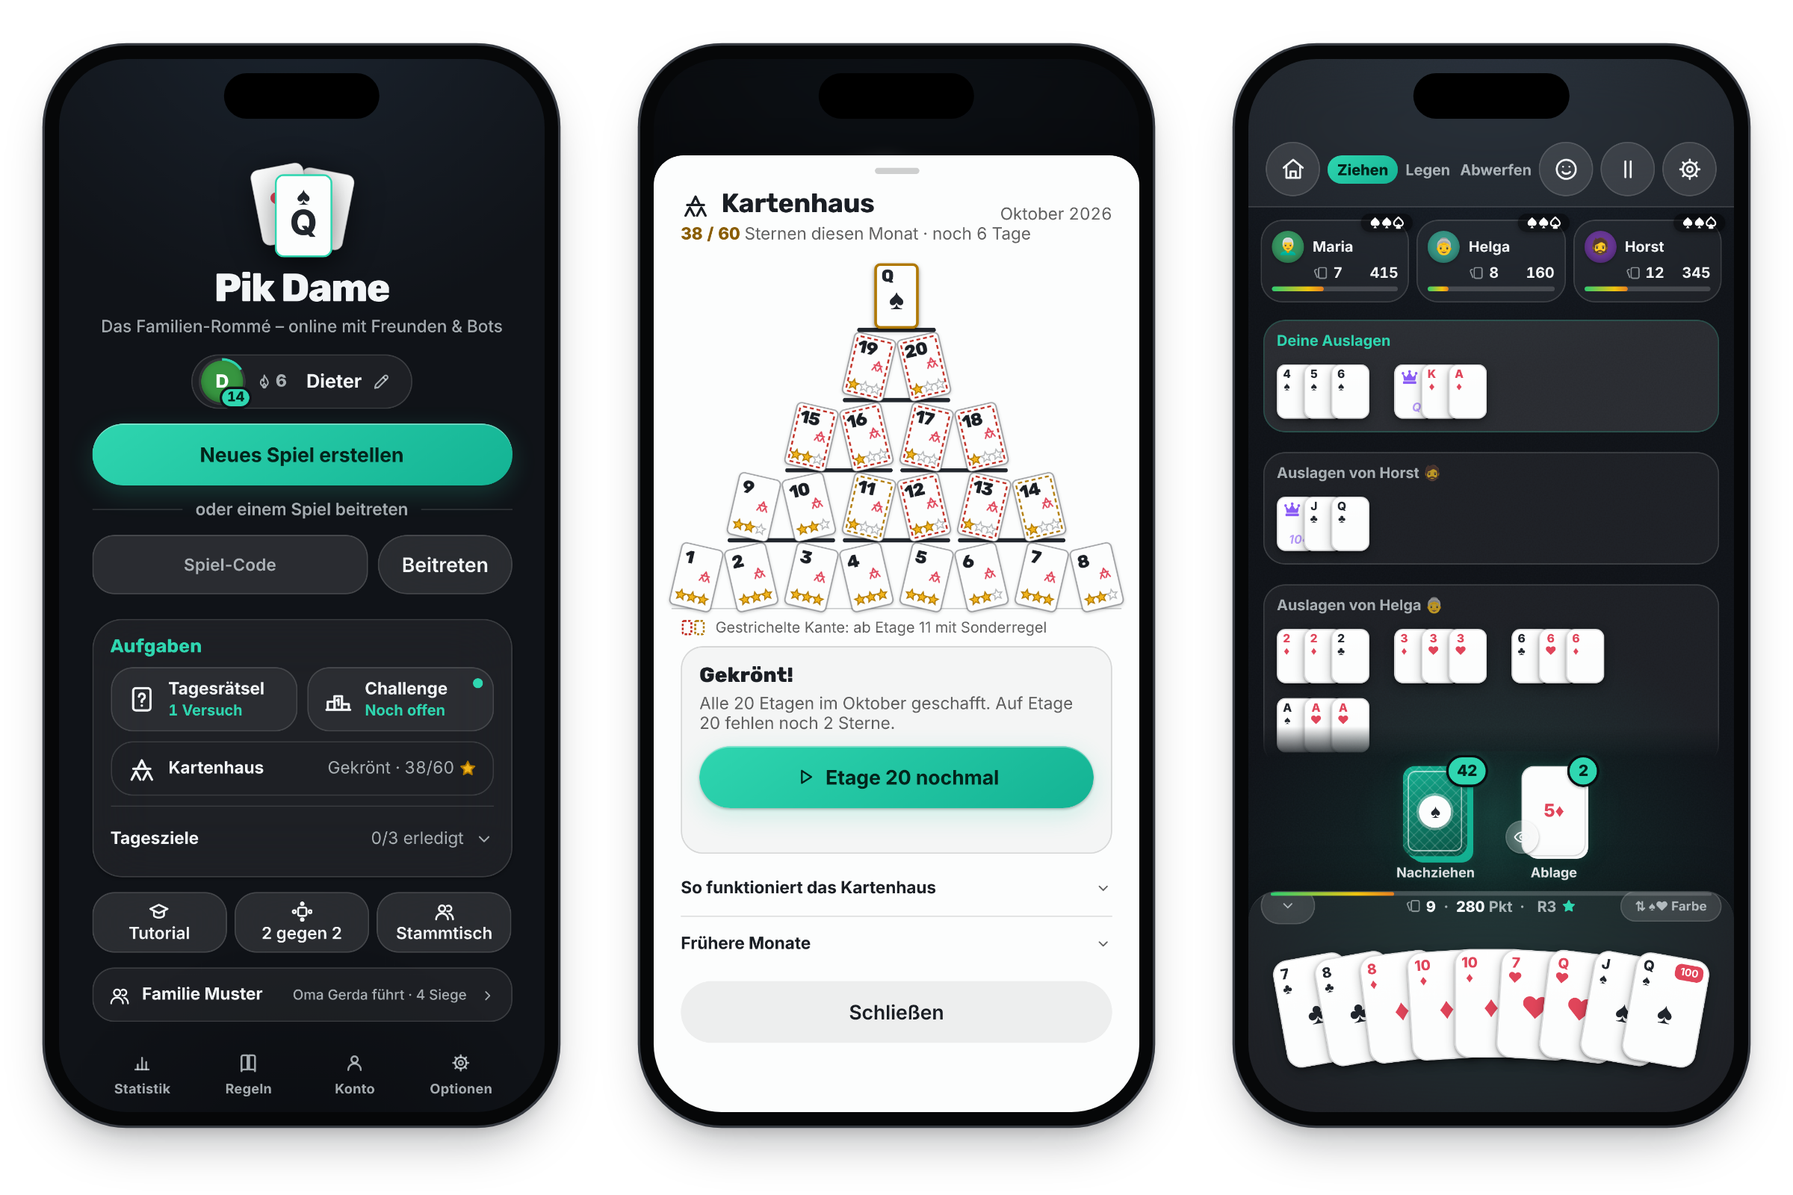
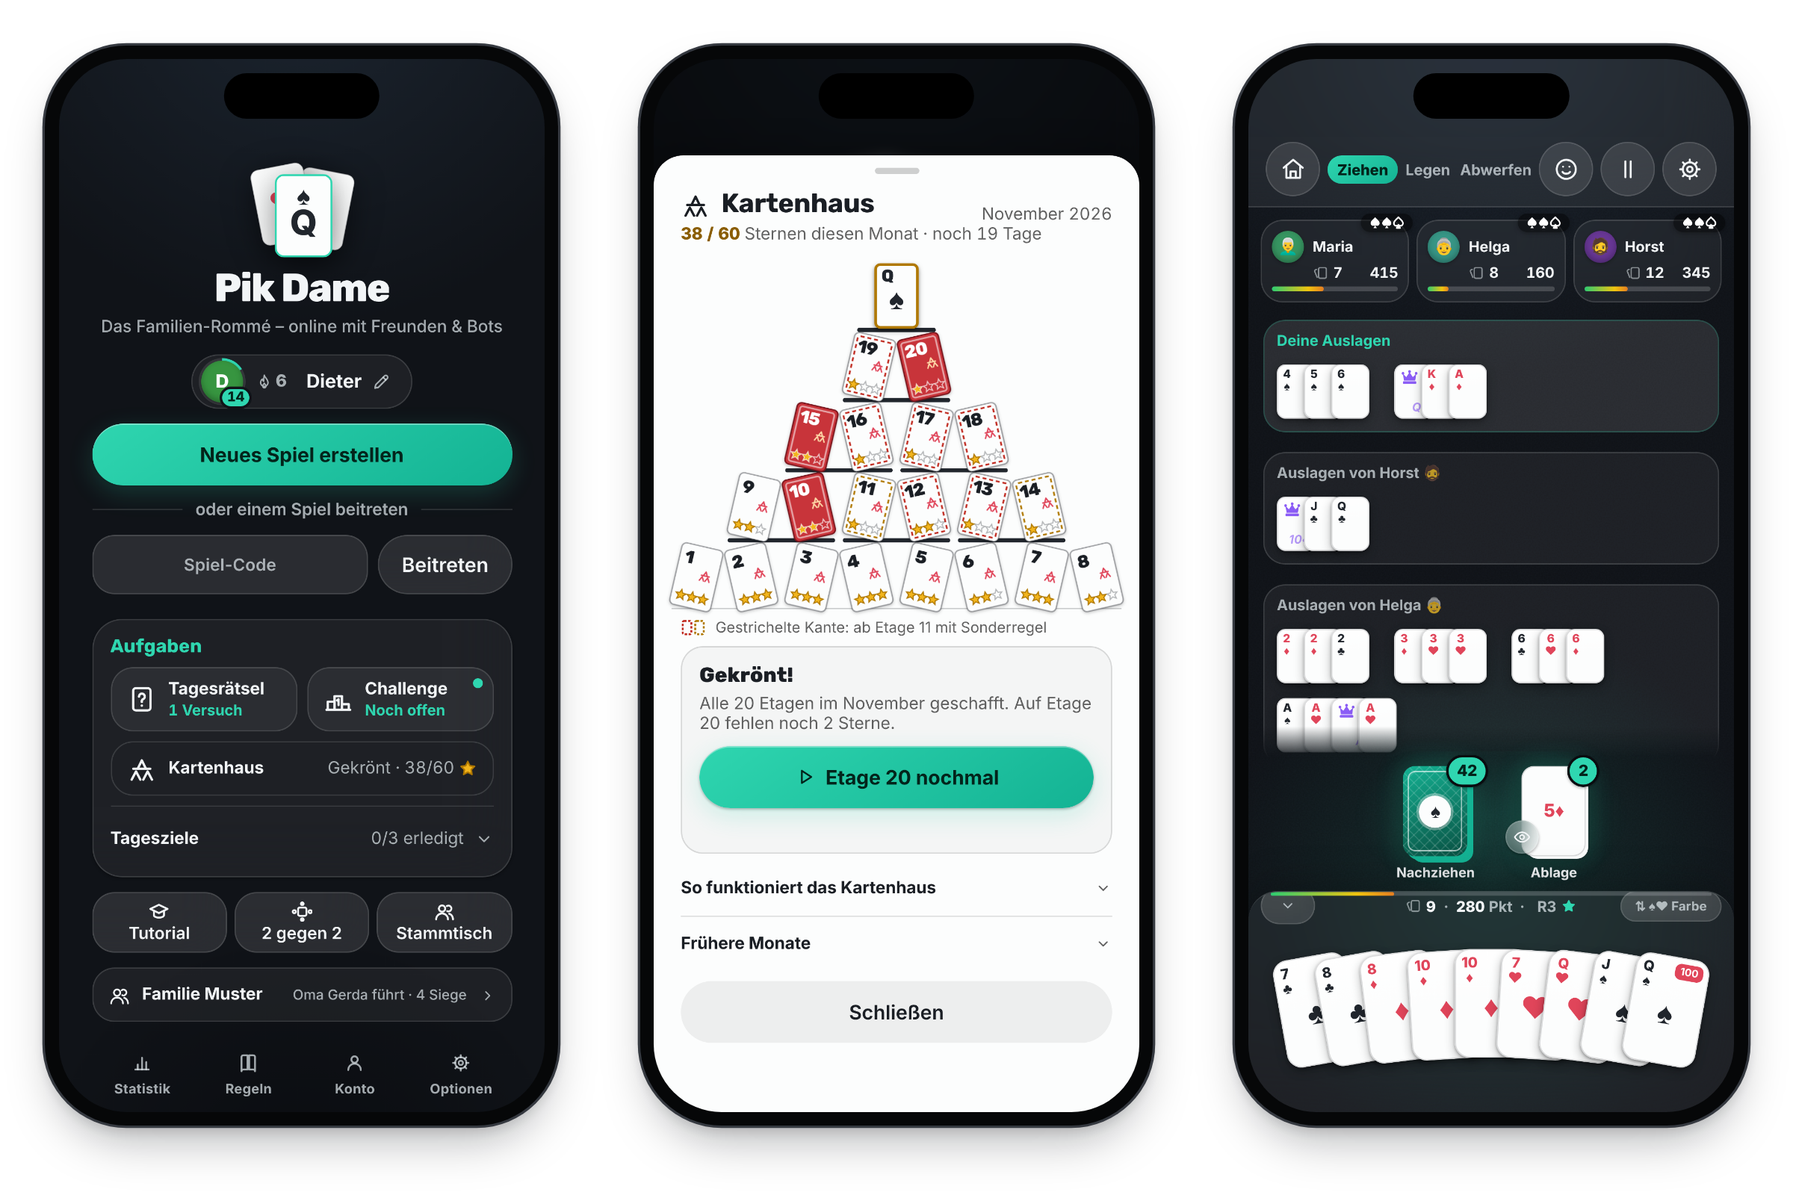
feat(tower): boss fights from December 2026
- BotTower.BOSS_FROM = '2026-12': floors 10, 15 and 20 are boss fights from
  December on (a constant, so worker threads and scripts see the same months).
- Stars come within reach: a win, a win with a quarter of the life left (150),
  with half (300). Measured on the real engine, a third and two thirds were
  left in 14 % and 3 % of the fights.
- Easier deals: Hard with slips wins 60-80 / 50-70 / 40-60 % (was 50-80 /
  40-70 / 30-60), and wins clearly (two stars) in at least 20 % - the first
  picks were deals Hard only ever won with 2 or 20 life left.
- December's three boss deals picked and proven under that rule; all months
  re-proven with the net, unchanged.
- The house's rules name the boss floors; the README picture shows them.

Claude-Session: https://claude.ai/code/session_01Wo3cPco4LmvGh9PgUU12c1

diff --git a/public/client.js b/public/client.js
@@ -606,15 +606,15 @@
       boss_jack: { emoji: '🗡', name: L('Buben\u00adschreck', "Jack's bane"), desc: L('Den Karo-Buben besiegt', 'Defeated the Jack of Diamonds'),
         how: L('Besiege den Karo-Buben, den Boss auf Etage 10 des Kartenhauses.', 'Defeat the Jack of Diamonds, the boss on floor 10 of the House of Cards.') },
       boss_jack_3: { emoji: '😎', name: L('Hinterhalt? Welcher Hinterhalt?', 'Ambush? What ambush?'), desc: L('Den Karo-Buben mit 3 Sternen besiegt', 'Defeated the Jack of Diamonds with 3 stars'),
-        how: L('Besiege den Karo-Buben und behalte dabei mindestens zwei Drittel deines Lebens - das gibt 3 Sterne.', 'Defeat the Jack of Diamonds with at least two thirds of your life left - that is 3 stars.') },
+        how: L('Besiege den Karo-Buben und behalte dabei mindestens die Hälfte deines Lebens - das gibt 3 Sterne.', 'Defeat the Jack of Diamonds with at least half of your life left - that is 3 stars.') },
       boss_king: { emoji: '⚔', name: L('Königs\u00admörder', 'Kingslayer'), desc: L('Den Kreuz-König besiegt', 'Defeated the King of Clubs'),
         how: L('Besiege den Kreuz-König, den Boss auf Etage 15 des Kartenhauses.', 'Defeat the King of Clubs, the boss on floor 15 of the House of Cards.') },
       boss_king_3: { emoji: '🛡', name: L('Rüstungs\u00adknacker', 'Armour breaker'), desc: L('Den Kreuz-König mit 3 Sternen besiegt', 'Defeated the King of Clubs with 3 stars'),
-        how: L('Besiege den Kreuz-König und behalte dabei mindestens zwei Drittel deines Lebens - das gibt 3 Sterne.', 'Defeat the King of Clubs with at least two thirds of your life left - that is 3 stars.') },
+        how: L('Besiege den Kreuz-König und behalte dabei mindestens die Hälfte deines Lebens - das gibt 3 Sterne.', 'Defeat the King of Clubs with at least half of your life left - that is 3 stars.') },
       boss_queen: { emoji: '🖤', name: L('Damen\u00adopfer', 'Queen sacrifice'), desc: L('Die Pik Dame besiegt', 'Defeated the Queen of Spades'),
         how: L('Besiege die Pik Dame, den Boss auf Etage 20 des Kartenhauses - erst ihre Katzen, dann sie.', 'Defeat the Queen of Spades, the boss on floor 20 of the House of Cards - her cats first, then her.') },
       boss_queen_3: { emoji: '🔮', name: L('Fluch\u00adbrecher', 'Curse breaker'), desc: L('Die Pik Dame mit 3 Sternen besiegt', 'Defeated the Queen of Spades with 3 stars'),
-        how: L('Besiege die Pik Dame und behalte dabei mindestens zwei Drittel deines Lebens - das gibt 3 Sterne.', 'Defeat the Queen of Spades with at least two thirds of your life left - that is 3 stars.') },
+        how: L('Besiege die Pik Dame und behalte dabei mindestens die Hälfte deines Lebens - das gibt 3 Sterne.', 'Defeat the Queen of Spades with at least half of your life left - that is 3 stars.') },
       boss_court: { emoji: '🏰', name: L('Hofstaat gestürzt', 'Court overthrown'), desc: L('Alle drei Bosse eines Monats mit 3 Sternen besiegt', 'Defeated all three bosses of a month with 3 stars'),
         how: L('Besiege in einem Monat Karo-Bube, Kreuz-König und Pik Dame jeweils mit 3 Sternen.', 'Defeat the Jack of Diamonds, the King of Clubs and the Queen of Spades with 3 stars each in one month.') },
     };
@@ -10413,6 +10413,11 @@
       '<ul class="khRuleList">' +
       Object.keys(TOWER_MODS).map((m) => '<li class="dot"><span>' + escapeHtml(towerModRuleLine(m)) + '</span></li>').join('') +
       '</ul>' +
+      // Only in a month that has them (the server marks the floors).
+      (info.stages.some((st) => st.boss)
+        ? p(`Die Etagen ${info.stages.filter((st) => st.boss).map((st) => st.stage).join(', ')} sind Boss-Kämpfe: ein Duell um Lebenspunkte. Sterne gibt es für den Sieg und für viel Leben am Ende.`,
+          `Floors ${info.stages.filter((st) => st.boss).map((st) => st.stage).join(', ')} are boss fights: a duel in life points. Stars for the win and for much life left.`)
+        : '') +
       p(`Der erste Stern jeder Etage bringt pro Monat einmal ${XP_RULES.towerFirstStar} EP; alle ${n} Etagen krönen dein Kartenhaus (+${XP_RULES.towerCrown} EP).`,
         `The first star of each floor pays ${XP_RULES.towerFirstStar} XP once a month; all ${n} floors crown your House of Cards (+${XP_RULES.towerCrown} XP).`);
   }

diff --git a/game/TowerGen.js b/game/TowerGen.js
@@ -74,6 +74,10 @@ async function generateMonth({
   const gateOf = (stage) => (boss(stage) ? R.bossHardMin(stage) : R.hardMin(stage));
   const capOf = (stage) => (boss(stage) ? R.bossHardMax(stage) : 100);
   const tagOf = (stage) => (boss(stage) ? { boss: 1 } : {});
+  /** Boss floors: Hard's share of clear wins (two stars), null below the rule; an ordinary floor has none. */
+  const clearOf = async (seed, stage) => (boss(stage)
+    ? rate({ seed, stage, month, n: R.HARD_GAMES, proxy: 'hard', stars: 2, within: [R.BOSS_CLEAR_MIN, 100] })
+    : undefined);
   /** Floors 11-20 and boss floors: Zen's star, Hard's rate >= its gate and the medium rate in [lo, hi]. */
   const high = (stage, [lo, hi]) => async (seed) => {
     const zen = await zenProof(seed, stage);
@@ -81,9 +85,11 @@ async function generateMonth({
     // Hard's gate first: it turns most candidates down, and stops early doing so.
     const hard10 = await rate({ seed, stage, month, n: R.HARD_GAMES, proxy: 'hard', within: [gateOf(stage), capOf(stage)] });
     if (hard10 == null) return null;
+    const hard2 = await clearOf(seed, stage);
+    if (hard2 === null) return null;
     const medium10 = await rate({ seed, stage, month, n: R.MEDIUM_GAMES, within: [lo, hi] });
     if (medium10 == null) return null;
-    return { seed, zen, hard: await hardIfWon(seed, stage), medium10, hard10, ...tagOf(stage) };
+    return { seed, zen, hard: await hardIfWon(seed, stage), medium10, hard10, hard2, ...tagOf(stage) };
   };
   const tries = emergency ? Math.min(maxTries, 2000) : maxTries;
   /** Floors 11-20, no deal fits gate and window: Zen's proof and Hard's gate stay, the
@@ -96,8 +102,10 @@ async function generateMonth({
       if (!zen) return null;
       const hard10 = await rate({ seed, stage, month, n: R.HARD_GAMES, proxy: 'hard', within: [gateOf(stage), capOf(stage)] });
       if (hard10 == null) return null;
+      const hard2 = await clearOf(seed, stage);
+      if (hard2 === null) return null;
       const medium10 = await rate({ seed, stage, month, n: R.MEDIUM_GAMES });
-      const entry = { seed, zen, hard: await hardIfWon(seed, stage), medium10, hard10, ...tagOf(stage) };
+      const entry = { seed, zen, hard: await hardIfWon(seed, stage), medium10, hard10, hard2, ...tagOf(stage) };
       if (off(medium10) === 0) return entry;
       if (!best || off(medium10) < off(best.medium10)) best = { ...entry, relaxed: true };
       return null;
@@ -147,7 +155,8 @@ async function generateMonth({
     }
     const win = boss(stage) ? R.bossMediumWindow(stage) : R.mediumWindow(stage);
     // An entry from before the floor became a boss floor (or the other way round) never fits.
-    const fits = (f) => proven(f) && !f.relaxed && !!f.boss === boss(stage) && f.medium10 >= win[0] && f.medium10 <= win[1] && f.hard10 >= gateOf(stage) && f.hard10 <= capOf(stage);
+    const fits = (f) => proven(f) && !f.relaxed && !!f.boss === boss(stage) && f.medium10 >= win[0] && f.medium10 <= win[1] && f.hard10 >= gateOf(stage) && f.hard10 <= capOf(stage)
+      && (!boss(stage) || f.hard2 >= R.BOSS_CLEAR_MIN);
     if (only && !only.includes(stage)) {
       if (!fits(kept)) { failed.push({ month, stage, window: win, kept: true }); log(`${month} floor ${stage}: kept, but off the rule`); }
       continue;

diff --git a/test/boss-fight.test.js b/test/boss-fight.test.js
@@ -76,13 +76,17 @@ test('a knockout ends it at once; both down: the higher share of life; the stars
   assert.strictEqual(s.me, PLAYER_HP, 'nothing after the end');
 
   s = BossFight.start(boss);
-  BossFight.bossTurn(s, boss, { points: 420, newMelds: 1 });
+  BossFight.bossTurn(s, boss, { points: 460, newMelds: 1 });
   BossFight.playerTurn(s, boss, { points: 100, newMelds: 1 });
-  assert.strictEqual(BossFight.starsFor(s), 1, '180 of 600 left: under a third');
+  assert.strictEqual(BossFight.starsFor(s), 1, '140 of 600 left: under a quarter');
   s = BossFight.start(boss);
-  BossFight.bossTurn(s, boss, { points: 400, newMelds: 1 });
+  BossFight.bossTurn(s, boss, { points: 450, newMelds: 1 });
   BossFight.playerTurn(s, boss, { points: 100, newMelds: 1 });
-  assert.strictEqual(BossFight.starsFor(s), 2, 'exactly a third');
+  assert.strictEqual(BossFight.starsFor(s), 2, 'exactly a quarter');
+  s = BossFight.start(boss);
+  BossFight.bossTurn(s, boss, { points: 300, newMelds: 1 });
+  BossFight.playerTurn(s, boss, { points: 100, newMelds: 1 });
+  assert.strictEqual(BossFight.starsFor(s), 3, 'exactly half');
   s = BossFight.start(boss);
   BossFight.bossTurn(s, boss, { points: 600, newMelds: 1 });
   assert.deepStrictEqual([s.over, s.won, BossFight.starsFor(s)], [true, false, 0]);
@@ -263,7 +267,7 @@ test('the boss\'s seat carries the boss\'s name, and the deal stays the one the 
     const g = floor(15);
     assert.strictEqual(g.players.find((p) => p.isBot).name, 'Kreuz-König');
     assert.strictEqual(g.publicState('me').bossFight.ambushReady, false, 'the king has no ambush');
-    assert.deepStrictEqual(g.publicState('me').bossFight.starLife, [200, 400]);
+    assert.deepStrictEqual(g.publicState('me').bossFight.starLife, [150, 300]);
     g.destroy();
   } finally { BotTower.setBossFrom(BotTower.BOSS_FROM); }
 });

diff --git a/scripts/tower-seeds.js b/scripts/tower-seeds.js
@@ -71,6 +71,7 @@ const proofEntry = (f) => ({
   zen: f.zen,
   ...(f.medium10 != null ? { medium10: f.medium10 } : {}),
   ...(f.hard10 != null ? { hard10: f.hard10 } : {}),
+  ...(f.hard2 != null ? { hard2: f.hard2 } : {}),
   ...(f.boss ? { boss: 1 } : {}),
 });
 
@@ -136,10 +137,14 @@ async function proveAll() {
       // Hard's slip rate: measured once where missing (not for October, it predates the gate).
       let hard10 = same && !!prev.boss === boss ? prev.hard10 : undefined;
       if (hard10 == null && (stage > 10 || boss) && month !== LEGACY.month) hard10 = await slipRate({ seed, stage, month, n: R.HARD_GAMES, proxy: 'hard' });
+      // A boss floor: Hard's clear wins (two stars), measured once where missing.
+      let hard2 = boss && same && prev.boss ? prev.hard2 : undefined;
+      if (boss && hard2 == null) hard2 = await slipRate({ seed, stage, month, n: R.HARD_GAMES, proxy: 'hard', stars: 2 });
       proofs[month].push(proofEntry({
         seed, hard: legacy || hard.stars >= 1 ? proofOf(hard) : undefined, zen: proofOf(zen),
-        medium10: same && !!prev.boss === boss ? prev.medium10 : undefined, hard10, boss,
+        medium10: same && !!prev.boss === boss ? prev.medium10 : undefined, hard10, hard2, boss,
       }));
+      if (boss && hard2 < R.BOSS_CLEAR_MIN) lost.push(`${month} floor ${stage} (Hard wins clearly in ${hard2} % < ${R.BOSS_CLEAR_MIN} %)`);
       if (hard10 != null && month !== LEGACY.month && hard10 < gate) lost.push(`${month} floor ${stage} (Hard ${hard10} % < ${gate.toFixed(1)} %)`);
       if (boss && hard10 > R.bossHardMax(stage)) lost.push(`${month} floor ${stage} (Hard ${hard10} % > ${R.bossHardMax(stage)} %: too easy for a boss)`);
       // October is closed and was played on the old floors 11-20 (100-160 head start): hashes only.

diff --git a/game/TowerRule.js b/game/TowerRule.js
@@ -3,7 +3,7 @@
 'use strict';
 
 /** Bump when the rule or the candidate order changes: stored months record it. */
-const GEN_VERSION = 5; // 5: easier boss deals (Hard 60-80 / 50-70 / 40-60 %); 4: boss floors picked by Hard's and Mittel's rate
+const GEN_VERSION = 5; // 5: easier boss deals (Hard 60-80 / 50-70 / 40-60 %, two stars in reach); 4: boss floors picked by Hard's and Mittel's rate
 const MEDIUM_GAMES = 100; // games of the medium player per candidate (floors 11-20)
 const HARD_GAMES = 100; // ... and of Hard
 const MAX_TRIES = 20000; // candidates per floor before it is reported
@@ -26,6 +26,10 @@ const bossHardMax = (stage) => bossHardMin(stage) + 20;
 /** ... and Mittel 40-80 / 30-70 / 20-60 %: around Hard's band, since both score alike in a duel. */
 const bossMediumWindow = (stage) => [bossHardMin(stage) - 20, bossHardMax(stage)];
 
+/** ... and Hard wins with two stars in at least this share (%) of its fights: a deal Hard only
+ *  ever wins with 2 life left has no second star in it for anyone. */
+const BOSS_CLEAR_MIN = 20;
+
 /** Floors 1-10: Hard's star must not be a landslide (floor 10: 60 points). */
 const marginCap = (stage) => 260 - 20 * stage;
 
@@ -45,5 +49,5 @@ const candidateSeed = (month, stage, i, lane = 'a') => fnv(`${month}|${stage}|${
 
 module.exports = {
   GEN_VERSION, MEDIUM_GAMES, HARD_GAMES, MAX_TRIES, NEAREST_TRIES,
-  hardMin, mediumMin, mediumMax, mediumWindow, bossHardMin, bossHardMax, bossMediumWindow, marginCap, fnv, candidateSeed,
+  hardMin, mediumMin, mediumMax, mediumWindow, bossHardMin, bossHardMax, bossMediumWindow, BOSS_CLEAR_MIN, marginCap, fnv, candidateSeed,
 };

diff --git a/game/TowerPlay.js b/game/TowerPlay.js
@@ -98,13 +98,14 @@ async function playFloor({ seed, stage, month, proxy = 'hard', slip = 0, run = 0
   }
 }
 
-/** Star rate (0-100) of `proxy` (medium by default) with `slip` human-like mistakes over n games.
- *  With `within: [lo, hi]` it stops early and returns null once the rate cannot land inside. */
-async function slipRate({ seed, stage, month, n = 100, slip = 0.1, proxy = 'medium', within = null, beforeGame = null }) {
+/** Star rate (0-100) of `proxy` (medium by default) with `slip` human-like mistakes over n games;
+ *  `stars`: how many a game needs to count (2: a clear win). With `within: [lo, hi]` it stops
+ *  early and returns null once the rate cannot land inside. */
+async function slipRate({ seed, stage, month, n = 100, slip = 0.1, proxy = 'medium', within = null, beforeGame = null, stars: need = 1 }) {
   let stars = 0;
   for (let run = 0; run < n; run++) {
     if (beforeGame) beforeGame(); // the deal worker's stop check: never inside a game
-    if ((await playFloor({ seed, stage, month, proxy, slip, run: 2000 + run })).stars >= 1) stars += 1;
+    if ((await playFloor({ seed, stage, month, proxy, slip, run: 2000 + run })).stars >= need) stars += 1;
     if (within && ((100 * stars) / n > within[1] || (100 * (stars + n - run - 1)) / n < within[0])) return null;
   }
   return (100 * stars) / n;

diff --git a/test/tower-proofs.test.js b/test/tower-proofs.test.js
@@ -15,7 +15,7 @@ const OnnxPolicy = require('../game/OnnxPolicy');
 const TowerSeeds = require('../game/TowerSeeds');
 const proofs = require('./fixtures/tower-proofs.json');
 const { playFloor, needsNet } = require('../game/TowerPlay');
-const { mediumWindow, hardMin, bossMediumWindow, bossHardMin, bossHardMax } = require('../game/TowerRule');
+const { mediumWindow, hardMin, bossMediumWindow, bossHardMin, bossHardMax, BOSS_CLEAR_MIN } = require('../game/TowerRule');
 
 const net = OnnxPolicy.enabled() && OnnxPolicy.available();
 const legacy = (month, stage) => month === BotTower.LEGACY_MONTH && stage <= 10;
@@ -42,6 +42,7 @@ test('every committed month has its proof games', () => {
         assert.ok(f.medium10 >= lo && f.medium10 <= hi, `${month} floor ${stage}: medium ${f.medium10} % outside ${lo.toFixed(1)}-${hi.toFixed(1)}`);
         assert.ok(f.hard10 >= gate, `${month} floor ${stage}: Hard wins ${f.hard10} % (< ${gate.toFixed(1)} %)`);
         if (boss) assert.ok(f.hard10 <= bossHardMax(stage), `${month} floor ${stage}: Hard wins ${f.hard10} %, too easy for a boss`);
+        if (boss) assert.ok(f.hard2 >= BOSS_CLEAR_MIN, `${month} floor ${stage}: Hard wins clearly in ${f.hard2} % (< ${BOSS_CLEAR_MIN} %): no second star in the deal`);
       }
     });
   }

diff --git a/test/tower-months.test.js b/test/tower-months.test.js
@@ -35,6 +35,15 @@ function assertRule(month, floors) {
   floors.forEach((f, i) => {
     const stage = i + 1;
     assert.ok(TowerGen.proven(f), `${month} floor ${stage}: a proven deal`);
+    // A boss floor (10, 15, 20 from BotTower.BOSS_FROM) has its own gates and says so.
+    if (BotTower.bossFor(stage, month)) {
+      const [lo, hi] = R.bossMediumWindow(stage);
+      assert.strictEqual(f.boss, 1, `${month} floor ${stage}: tagged as a boss deal`);
+      if (!f.relaxed) assert.ok(f.medium10 >= lo && f.medium10 <= hi, `${month} floor ${stage}: medium ${f.medium10} outside ${lo}-${hi}`);
+      assert.ok(f.relaxed || (f.hard10 >= R.bossHardMin(stage) && f.hard10 <= R.bossHardMax(stage)), `${month} floor ${stage}: Hard ${f.hard10} % outside the boss band`);
+      assert.ok(f.relaxed || f.hard2 >= R.BOSS_CLEAR_MIN, `${month} floor ${stage}: Hard's clear wins ${f.hard2} % below ${R.BOSS_CLEAR_MIN} %`);
+      return;
+    }
     if (stage <= 10) {
       assert.ok(f.hard && f.hard[0] >= 1 && f.hard[1] <= R.marginCap(stage), `${month} floor ${stage}: Hard's tight star`);
       return;

diff --git a/test/fixtures/tower-stub-play.js b/test/fixtures/tower-stub-play.js
@@ -23,11 +23,11 @@ async function playFloor({ seed, stage, proxy = 'hard' }) {
   return ({ stars, margin: stars ? (h >>> 4) % 200 : -((h >>> 4) % 90), hash: h.toString(16).padStart(12, '0').slice(0, 12), turns: 30 });
 }
 
-async function slipRate({ seed, stage, proxy = 'medium', within = null, beforeGame = null }) {
+async function slipRate({ seed, stage, proxy = 'medium', within = null, beforeGame = null, stars = 1 }) {
   calls += 1;
   if (beforeGame) beforeGame();
   if (process.env.TOWER_STUB_DELAY_MS) await delay();
-  let r = (fnv(`${seed}|${proxy}`) >>> 3) % 71; // 0-70 %
+  let r = (fnv(`${seed}|${proxy}${stars > 1 ? `|${stars}` : ''}`) >>> 3) % 71; // 0-70 %
   if (proxy === 'medium' && list('TOWER_STUB_MEDIUM_NEVER').includes(stage)) r = 99;
   if (proxy === 'hard' && list('TOWER_STUB_HARD_NEVER').includes(stage)) r = 5;
   if (within && (r < within[0] || r > within[1])) return null;

diff --git a/game/TowerSeeds.js b/game/TowerSeeds.js
@@ -6,5 +6,5 @@
 module.exports = {
   '2026-10': [84, 10, 78, 24, 63, 131, 34, 89, 28, 170, 1000430, 5103435, 5208634, 1007896, 5401309, 5503737, 1015197, 5700829, 5800993, 5900413],
   '2026-11': [110000, 110003, 110008, 110020, 110024, 110050, 110052, 110055, 110071, 110252, 2938971411, 2072568962, 1040964949, 3732010999, 3403065050, 1953125571, 4164128870, 1692513839, 395864541, 3931775187],
-  '2026-12': [120000, 120001, 120003, 120004, 120007, 120009, 120010, 120021, 120087, 2409526116, 401050850, 2133016108, 2439836827, 4048413641, 2410020770, 3929276602, 4196622132, 3152323432, 3668793570, 3425801348],
+  '2026-12': [120000, 120001, 120003, 120004, 120007, 120009, 120010, 120021, 120087, 2839651040, 401050850, 2133016108, 2439836827, 4048413641, 3076547097, 3929276602, 4196622132, 3152323432, 3668793570, 3005214813],
 };

diff --git a/scripts/readme-hero.js b/scripts/readme-hero.js
@@ -68,7 +68,7 @@ async function shoot(dir) {
   fs.writeFileSync(stateFile, JSON.stringify(tableState()));
   // --safe-area: laid out like the installed app on an iPhone, the status bar left free for the island.
   execFileSync(process.execPath, [UI_SHOTS, '--out', dir, '--port', String(await freePort()), '--views', 'phone',
-    '--scale', '3', '--safe-area', '--name', NAME, '--tower', 'crowned', '--scenes', 'lobby,tower,table', '--state', stateFile],
+    '--scale', '3', '--safe-area', '--name', NAME, '--tower', 'crowned', '--boss', '--scenes', 'lobby,tower,table', '--state', stateFile],
   { cwd: ROOT, stdio: 'inherit' });
 }
 

diff --git a/game/BossFight.js b/game/BossFight.js
@@ -11,8 +11,9 @@ const COMBO = [1.5, 2];
 const ENRAGE = 1.25;
 const MAX_ROUNDS = 5; // then the higher share of life wins; never reached in 4500 simulated fights
 const QUEEN_POINTS = 100;
-// Stars: a win, a win with a third of the life left, with two thirds.
-const STAR_SHARES = [0, 1 / 3, 2 / 3];
+// Stars: a win, a win with a quarter of the life left, with half. Measured: a fight runs ~2.5
+// rounds at ~170 damage each way, so a third and two thirds were out of reach (3 % of fights).
+const STAR_SHARES = [0, 1 / 4, 1 / 2];
 
 /**
  * hp/bot: the boss. ambush: its first hit of a round counts xN. armor: each of the player's
